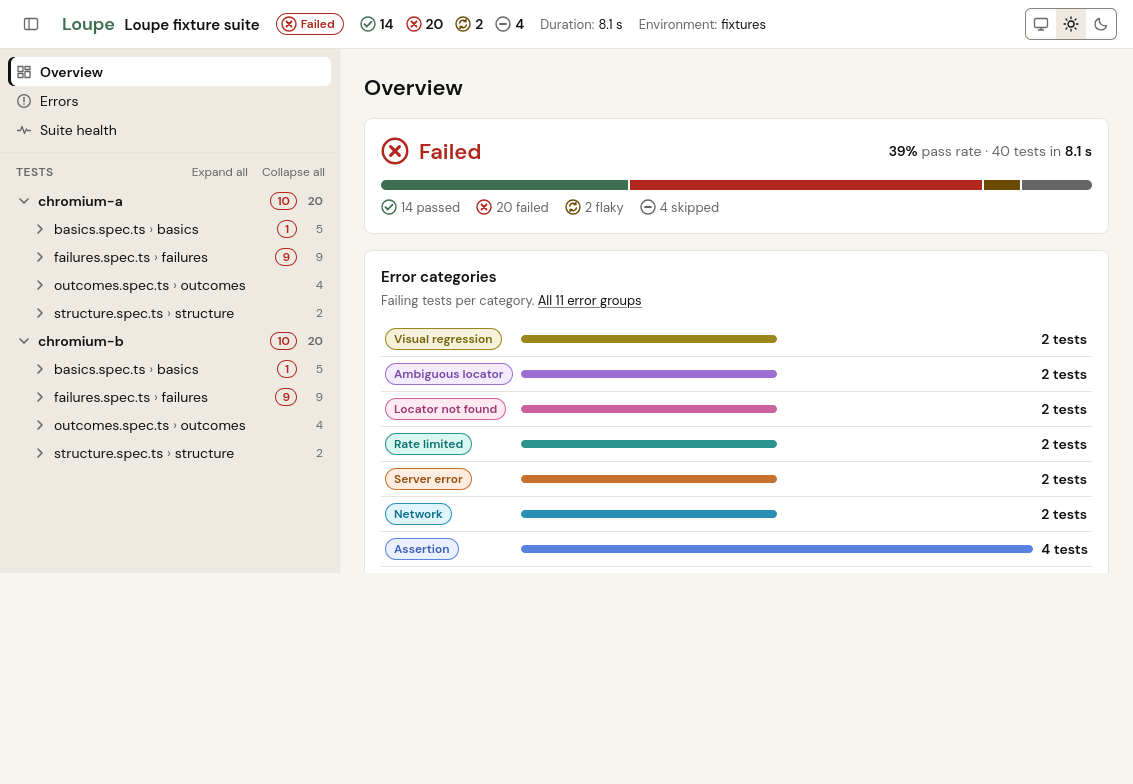
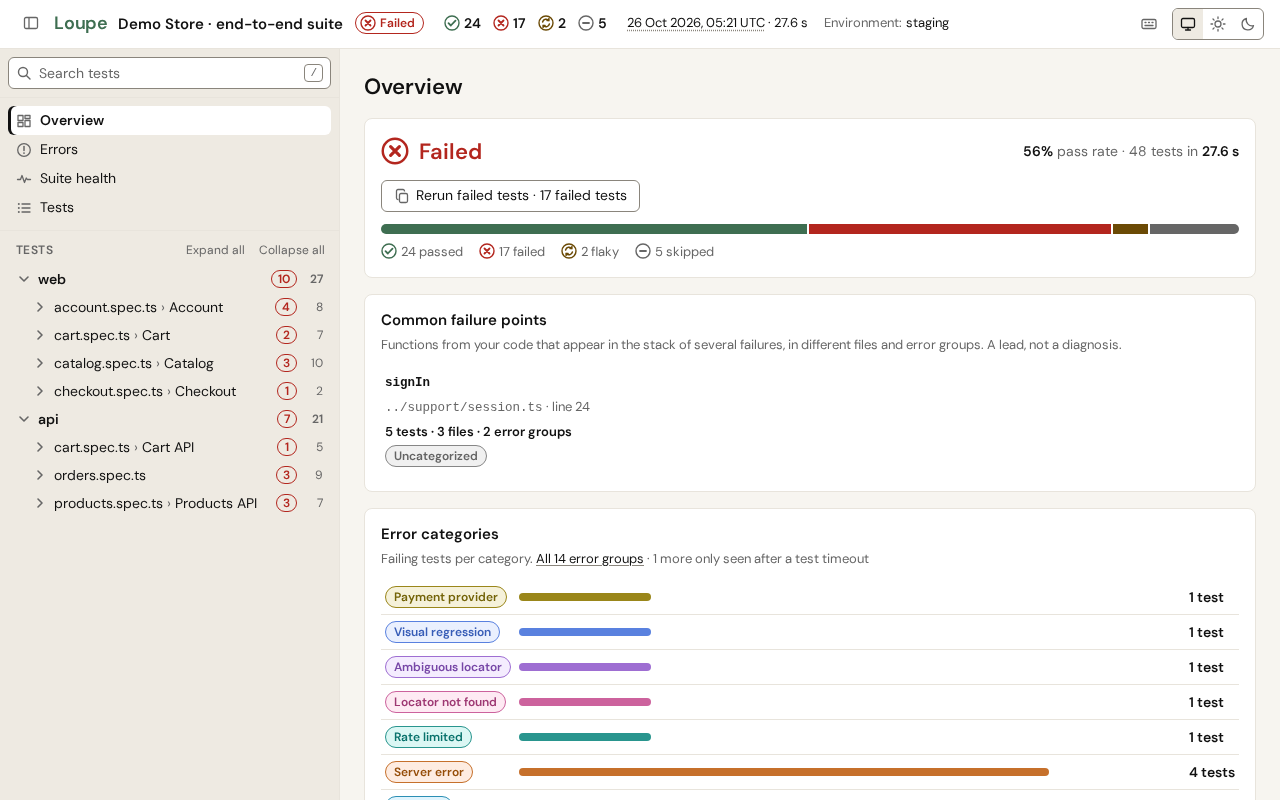
docs: add README screenshots and a link to the live demo
Add scripts/demo-screenshots.mjs, which regenerates the README images
from a CI-built demo report in demo-report/: five views (Overview, an
error group, Suite health, Tests filtered, the screenshot comparison
of a failed toHaveScreenshot test) in light and dark, at 1280x800,
English dates in UTC. It refuses a report built locally, whose stack
traces hold local paths.

The README links to the live demo on GitHub Pages and shows each view
with <picture> (dark source, light fallback) on absolute
raw.githubusercontent.com URLs, with descriptive alt texts.
docs/images/overview.png is kept, as the light Overview, for the README
of published versions. The sidebar description follows the per-project
folder fix, and the Development table and CLAUDE.md list the demo
commands.

diff --git a/README.md b/README.md
@@ -3,7 +3,12 @@ Loupe — an HTML reporter for Playwright: a dashboard that shows what failed an
 
 > **Status: work in progress — the JSON schema will change before 1.0.**
 
-![Loupe overview](https://raw.githubusercontent.com/qartisan/playwright-loupe/main/docs/images/overview.png)
+**[Live demo](https://qartisan.github.io/playwright-loupe/)**: the report of a small demo suite that fails on purpose, rebuilt at each release.
+
+<picture>
+  <source media="(prefers-color-scheme: dark)" srcset="https://raw.githubusercontent.com/qartisan/playwright-loupe/main/docs/images/overview-dark.png">
+  <img alt="The Overview of the demo report: a failed run of 48 tests, with the common failure point signIn shared by 5 tests in 3 files, the failing tests per error category, and the sidebar listing the web and api projects and their spec files." src="https://raw.githubusercontent.com/qartisan/playwright-loupe/main/docs/images/overview-light.png">
+</picture>
 
 Loupe is a reporter for Playwright, not affiliated with Microsoft.
 
@@ -35,7 +40,35 @@ A run that broke outside its tests (a spec file that fails to import, a failing 
 
 ## The report
 
-The report is a single self-contained HTML file. It works offline, straight from `file://`, in light and dark themes.
+The report is a single self-contained HTML file. It works offline, straight from `file://`, in light and dark themes. The screenshots below come from the [live demo](https://qartisan.github.io/playwright-loupe/).
+
+**An error group**, shared by several tests:
+
+<picture>
+  <source media="(prefers-color-scheme: dark)" srcset="https://raw.githubusercontent.com/qartisan/playwright-loupe/main/docs/images/errors-dark.png">
+  <img alt="An error group page: 3 tests failing with the same Server error, expect(response).toBeOK() failed with a 500 Internal Server Error, its sample message with the call log, and the affected tests with their project and file." src="https://raw.githubusercontent.com/qartisan/playwright-loupe/main/docs/images/errors-light.png">
+</picture>
+
+**Suite health**, by dimension:
+
+<picture>
+  <source media="(prefers-color-scheme: dark)" srcset="https://raw.githubusercontent.com/qartisan/playwright-loupe/main/docs/images/health-dark.png">
+  <img alt="Suite health: a bar of passed, failed, flaky and skipped tests for each value of the Area and Owner dimensions, and the failing tests of each bug annotation." src="https://raw.githubusercontent.com/qartisan/playwright-loupe/main/docs/images/health-light.png">
+</picture>
+
+**Tests**, filtered:
+
+<picture>
+  <source media="(prefers-color-scheme: dark)" srcset="https://raw.githubusercontent.com/qartisan/playwright-loupe/main/docs/images/tests-dark.png">
+  <img alt="The Tests view filtered on failed and flaky tests: 19 of 48 tests, the active filters as chips, a button copying the rerun command of the 17 failed tests, and the sortable table with status, test, project, file, duration and error category." src="https://raw.githubusercontent.com/qartisan/playwright-loupe/main/docs/images/tests-light.png">
+</picture>
+
+**A screenshot comparison**, in a test's attachments:
+
+<picture>
+  <source media="(prefers-color-scheme: dark)" srcset="https://raw.githubusercontent.com/qartisan/playwright-loupe/main/docs/images/test-detail-dark.png">
+  <img alt="Screenshot comparison of a failed toHaveScreenshot test, in Side by side mode: the expected product card with a green Add to cart button next to the actual one with a blue button." src="https://raw.githubusercontent.com/qartisan/playwright-loupe/main/docs/images/test-detail-light.png">
+</picture>
 
 - **Header:** the run's verdict and status counts, its start, duration and environment; the shortcuts and theme controls stay top-right at every width. A [partial run](docs/schema/v1.md#run-scope) shows a pill after the verdict, "Partial: grep filter" ("+2" with more reasons, "Partial" alone on narrow screens), which opens the run details (`#/run-details`) where every reason is listed.
 - **Overview:** verdict with pass rate, run errors first when the run broke outside its tests, [common failure points](#common-failure-points), error categories, project cards, and the run details in three groups: Run (scope, CI, workers, shard), Code (commit, short with a copy button; branch; repository) and Environment (Playwright, Loupe, Node, OS). Empty values are left out.
@@ -52,7 +85,7 @@ The report is a single self-contained HTML file. It works offline, straight from
   - A `file:line` argument targets the line where the test is declared and reruns every test declared on that line. A command is only valid while the file has not changed since the run.
 - **Suite health:** dimensions from tags and annotations (with hints for unknown or inconsistent values), slowest, skipped (with why, see [Skip reasons](#skip-reasons)) and flaky tests.
 - **Tests:** every test in one sortable list (by default in declaration order, as in the sidebar: project, file, line; the Status header sorts failed, flaky, passed, skipped), filtered by status, error category, failure point, project, tag and dimension, with the count each filter would give. Header counts, error categories, failure points and dimension values open it pre-filtered. Large lists show their first 500 rows, with "Show 500 more" and "Show all". Under each title, chips show what the test covers: its dimension values first (dimensions in config order, the value alone, `api`, with the dimension in the tooltip), then its other tags (`@smoke`), sorted. A tag a dimension takes appears only as that dimension's value. A chip adds its value to the filters, keeping the others and the sort; an active chip (with a ×) removes it, and Back undoes either. Up to four chips per row, active chips always among them; "+N" shows the rest. A skipped test shows why on a muted line under its title, above the chips.
-- **Sidebar:** search (`/` to focus; every word must match, ignoring case and accents, the title path, file, project, tags, dimension values or the reason a test was skipped: `smoke`, `api`, `layer:api`, `sandbox`), projects, folders, files, `describe` blocks and tests, with status icons, failure counts and keyboard navigation. The folder shared by every file is not repeated.
+- **Sidebar:** search (`/` to focus; every word must match, ignoring case and accents, the title path, file, project, tags, dimension values or the reason a test was skipped: `smoke`, `api`, `layer:api`, `sandbox`), projects, folders, files, `describe` blocks and tests, with status icons, failure counts and keyboard navigation. Each project leaves out the folder shared by its own files, so a project with its own test directory does not repeat it.
 - **Filters in the URL:** search, filters and sort live in the link, so a filtered view can be shared or bookmarked, even from `file://`. A project without a `name` (Playwright's default project) cannot be selected in the project filter: an empty name cannot be written in the URL. Give your projects a name to filter by them. Each tag is filterable in one place only: a tag a dimension is built from (`@layer:ui` with a `layer` dimension, configured or automatic) is in that dimension's filter (Layer: `ui`), not in the tag filter, so the two can never be combined into an empty result. Unprefixed tags (`@smoke`) and prefixed tags no dimension uses stay in the tag filter. The failure point filter (`point`, the value `<file>#<function>` encoded like any other, `#` as `%23`: `point=fixtures%2Fsession.ts%23signIn`) offers the points of the Overview card; a test matches when the function is in the stack of one of its failing attempts.
 
 ### Skip reasons
@@ -201,6 +234,8 @@ Node.js 22.12 is the minimum because ES module config files are loaded with `req
 | `npm run fixtures` | Builds, then runs the fixture suite into `loupe-report/`. Its failures are intentional, see [`fixtures/README.md`](fixtures/README.md). |
 | `npm run sample:update` | Builds, then runs the fixture suite with `fixtures/sample.config.ts` and writes its report to `src/renderer/dev/sample.json`: failures, flaky and skipped tests, a partial run and a run error. Its attachment files go to `src/renderer/dev/data/` (gitignored). |
 | `npm run perf:sample` | Builds, then writes two 5,000-test reports to `loupe-perf/` (gitignored), from the renderer sample: `sample` (its own tags) and `heavy` (7 to 8 chips per row). Add `-- --measure` to time opening, filtering, sorting and searching the Tests view in Chromium (median of 7 runs), and `--renderer <index.html>` to time another renderer build, for a before / after comparison. |
+| `npm run demo` | Builds, then runs the demo suite ([`demo/`](demo/README.md)) into `demo-report/` (gitignored) and checks that it fails exactly as intended: the live demo report comes from it. Add `-- --open` to open the report. A report built locally holds your local paths: it is not for publishing. |
+| `npm run demo:screenshots` | Regenerates the README screenshots in `docs/images/`, light and dark, from a **CI-built** demo report in `demo-report/` (the `demo-report` artifact of the CI's "Demo suite" job). It refuses a report built on your machine. |
 | `npm run dev:renderer` | Vite dev server for the renderer, fed with `src/renderer/dev/sample.json`, with hot reload; it serves the sample's attachments at `data/`. No Playwright run needed for UI work. |
 
 Tests that drive a browser need Chromium: `npx playwright install chromium`.

diff --git a/CLAUDE.md b/CLAUDE.md
@@ -77,6 +77,8 @@ The npm scripts of `package.json`; the README's Development section describes ea
 - `npm run sample:update`: rewrites the renderer sample `src/renderer/dev/sample.json` from the fixture suite.
 - `npm run perf:sample`: writes 5,000-test reports to `loupe-perf/`; `-- --measure` times the Tests view.
 - `npm run dev:renderer`: Vite dev server for the renderer, on the sample.
+- `npm run demo`: builds, then runs the demo suite (`demo/`) into `demo-report/` and checks it fails exactly as intended; `-- --open` opens it.
+- `npm run demo:screenshots`: regenerates the README images in `docs/images/` from a CI-built `demo-report/` (it refuses a locally built one).
 - Accessibility suite alone: `npm run build && npx vitest run test/renderer-a11y-browser.test.ts`. To add a state, one line in its `MATRIX`; accepted findings in `test/a11y-allowlist.ts`, each with its reason (an unused entry fails a full run). See the README's "Accessibility tests".
 
 There is no `show` command: traces open with `npx playwright show-trace <file>`, which the report's trace card copies.
